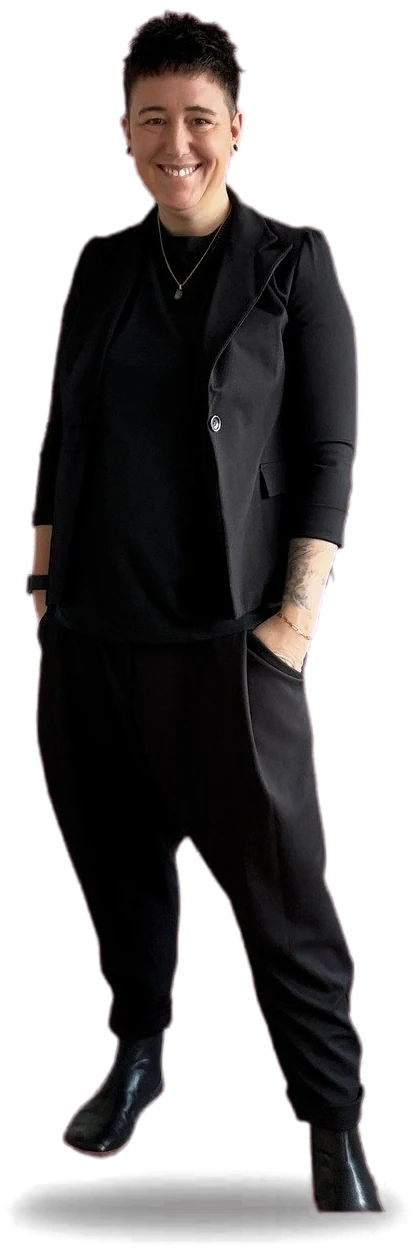
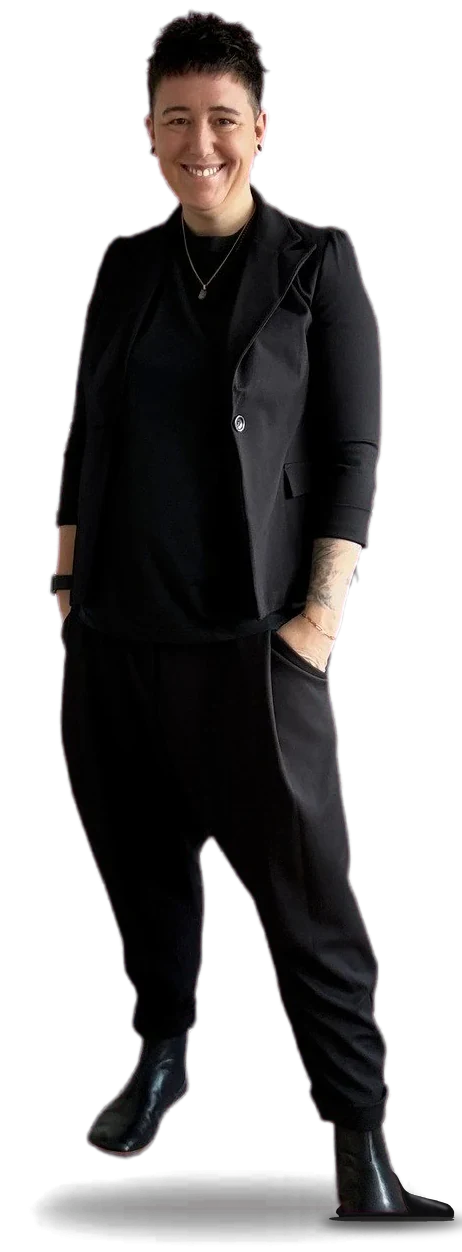
Hero v5: rechten Schuh ergänzt (Foto schnitt ihn flach ab), pinke Punkte an den Hinweislinien entfernt
Claude-Session: https://claude.ai/code/session_01MCYRdb9ZxpwyyzBBQ1uqyV

diff --git a/index.html b/index.html
@@ -704,7 +704,7 @@ h1 .lni{display:inline-block}
    Motion: name and figure rise in; pointer = depth parallax (name and figure move against each other, figure turns slightly);
    scroll = the name stays back while the figure moves on. Name size is fitted to the width by JS (--fs). ---- */
 .sr{position:absolute;width:1px;height:1px;margin:-1px;padding:0;overflow:hidden;clip:rect(0 0 0 0);white-space:nowrap;border:0}
-.hv5{--hh:max(620px,calc(100svh - 53px));--pt:clamp(18px,2.4vw,36px);--ft:calc(var(--pt) + var(--fs,10vw)*.5);--fh:calc(var(--hh) - var(--ft) - 6px);--fw:calc(var(--fh)*.3307);
+.hv5{--hh:max(620px,calc(100svh - 53px));--pt:clamp(18px,2.4vw,36px);--ft:calc(var(--pt) + var(--fs,10vw)*.5);--fh:calc(var(--hh) - var(--ft) - 6px);--fw:calc(var(--fh)*.369);
   display:grid;grid-template-columns:minmax(0,1fr) var(--fw) minmax(0,1fr);grid-template-rows:auto 1fr auto;column-gap:clamp(28px,4vw,72px);
   min-height:var(--hh);padding-top:var(--pt);padding-bottom:clamp(24px,3.2vw,48px);overflow:hidden}
 .hv5 h1{grid-column:1/-1;grid-row:1;min-width:0;align-self:start;z-index:1;font-size:var(--fs,10vw);line-height:.84;font-stretch:125%;font-weight:850;letter-spacing:-.02em;text-align:center;white-space:nowrap;
@@ -719,9 +719,8 @@ html[lang="de"] .hv5{--ft:calc(var(--pt) + var(--fs,10vw)*.66)}
 .hfp img{display:block;width:100%;height:100%;object-fit:contain;object-position:50% 100%}
 .hco{position:absolute;display:flex;align-items:center;gap:10px;color:var(--grey);white-space:nowrap}
 .hco i{position:relative;width:clamp(36px,5vw,96px);height:1px;background:var(--ink)}
-.hco i::after{content:"";position:absolute;top:-3px;width:7px;height:7px;border-radius:50%;background:var(--mag)}
-.hco-l{right:62%;top:24%}.hco-l i::after{right:-3px}.hco-l i{transform-origin:100% 50%}
-.hco-r{left:58%;top:15%}.hco-r i::after{left:-3px}.hco-r i{transform-origin:0 50%}
+.hco-l{right:61%;top:24%}.hco-l i{transform-origin:100% 50%}
+.hco-r{left:57%;top:15%}.hco-r i{transform-origin:0 50%}
 .hv5 .look{grid-column:1;grid-row:3;align-self:end;display:flex;gap:12px;align-items:baseline;max-width:27em;margin:0;padding:0;border:0;background:none;font-size:1.0625rem;line-height:1.5}
 .hv5 .look .mono{font-size:.75rem}
 .hv5 .hrow{grid-column:3;grid-row:3;align-self:end;justify-content:flex-end;margin:0}
@@ -738,7 +737,7 @@ html[lang="de"] .hv5{--ft:calc(var(--pt) + var(--fs,10vw)*.66)}
   .hv5{display:flex;flex-direction:column;min-height:0;padding-bottom:36px}
   .hv5 h1{transform:none;opacity:1}
   .hv5 .t1,.hv5 .t2{display:table;margin:0 auto}
-  .hv5 .hfig{position:relative;top:auto;left:auto;width:auto;height:min(64svh,560px);aspect-ratio:.3307;margin:calc(var(--fs2,18vw)*-.42) auto 0}
+  .hv5 .hfig{position:relative;top:auto;left:auto;width:auto;height:min(64svh,560px);aspect-ratio:.369;margin:calc(var(--fs2,18vw)*-.42) auto 0}
   .hco{display:none}
   .hv5 .look{max-width:none;margin-top:18px}
   .hv5 .hrow{justify-content:flex-start;margin-top:18px}
@@ -804,7 +803,7 @@ html[lang="de"] .hv5{--ft:calc(var(--pt) + var(--fs,10vw)*.66)}
 <div class="xh" aria-hidden="true"><i></i><i></i><span class="mono"></span></div>
 <h1><span class="htp"><span class="ln"><span class="lni" style="--l:0"><span class="t1">Hi, I&#8217;m</span> <span class="t2">Julia!</span></span></span></span> <span class="sr">Design, AI &amp; Digitalization, Project Management</span></h1>
 <figure class="hfig">
-<div class="hfp"><img src="img/portrait-cut.webp" alt="Julia Wimmer, full length, in a black suit" width="414" height="1252" fetchpriority="high"></div>
+<div class="hfp"><img src="img/portrait-cut.webp" alt="Julia Wimmer, full length, in a black suit" width="462" height="1252" fetchpriority="high"></div>
 <figcaption class="hco hco-l mono"><span>Fig. 01 · Julia</span><i></i></figcaption>
 <span class="hco hco-r mono" role="img" aria-label="Languages: German, English, Spanish"><i></i><span>DE / EN / ES</span></span>
 </figure>
